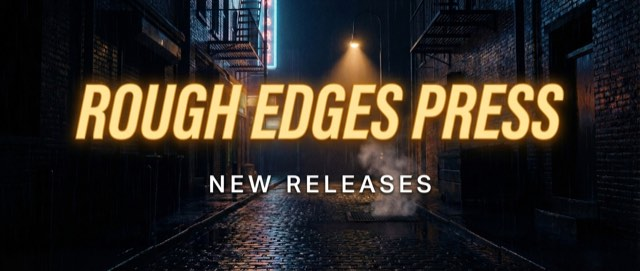
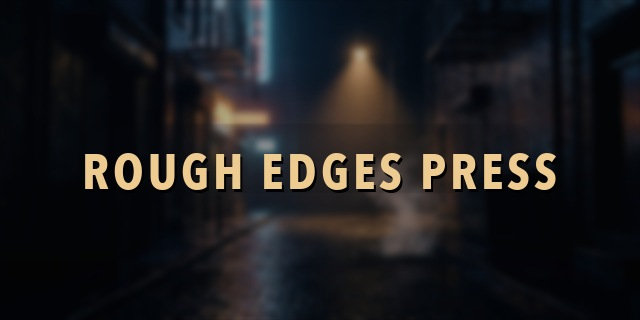
Preview: week of 2026-04-20 (approved headers relinked)

diff --git a/index.html b/index.html
@@ -7,5 +7,5 @@
 <a href="lnbp_nr.html">Lnbp Nr</a>
 <a href="rep_nr.html">Rep Nr</a>
 <a href="wolfpack_nr.html">Wolfpack Nr</a>
-<p style="color:#999;font-size:12px">Generated 2026-04-19 21:17 UTC</p>
+<p style="color:#999;font-size:12px">Republished after approved-header relink</p>
 </body></html>
